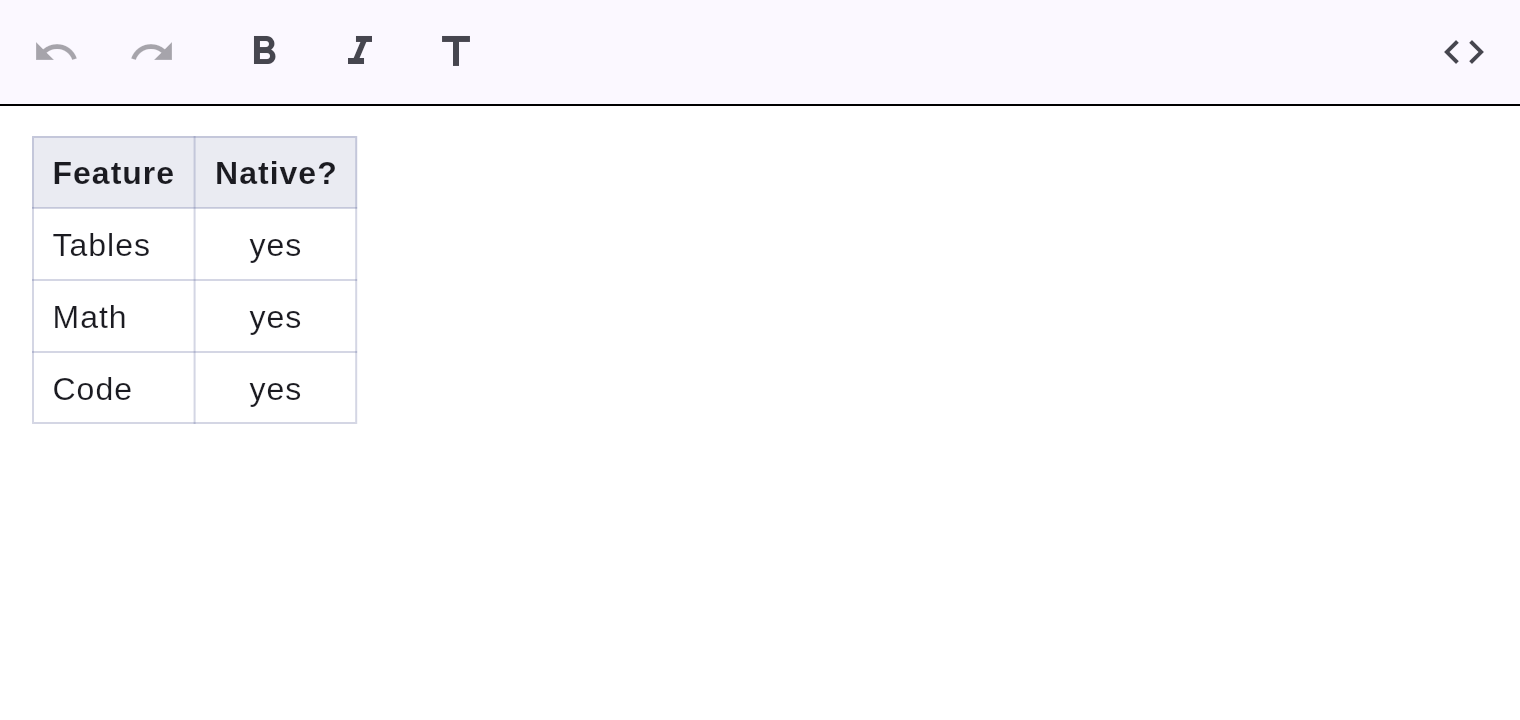
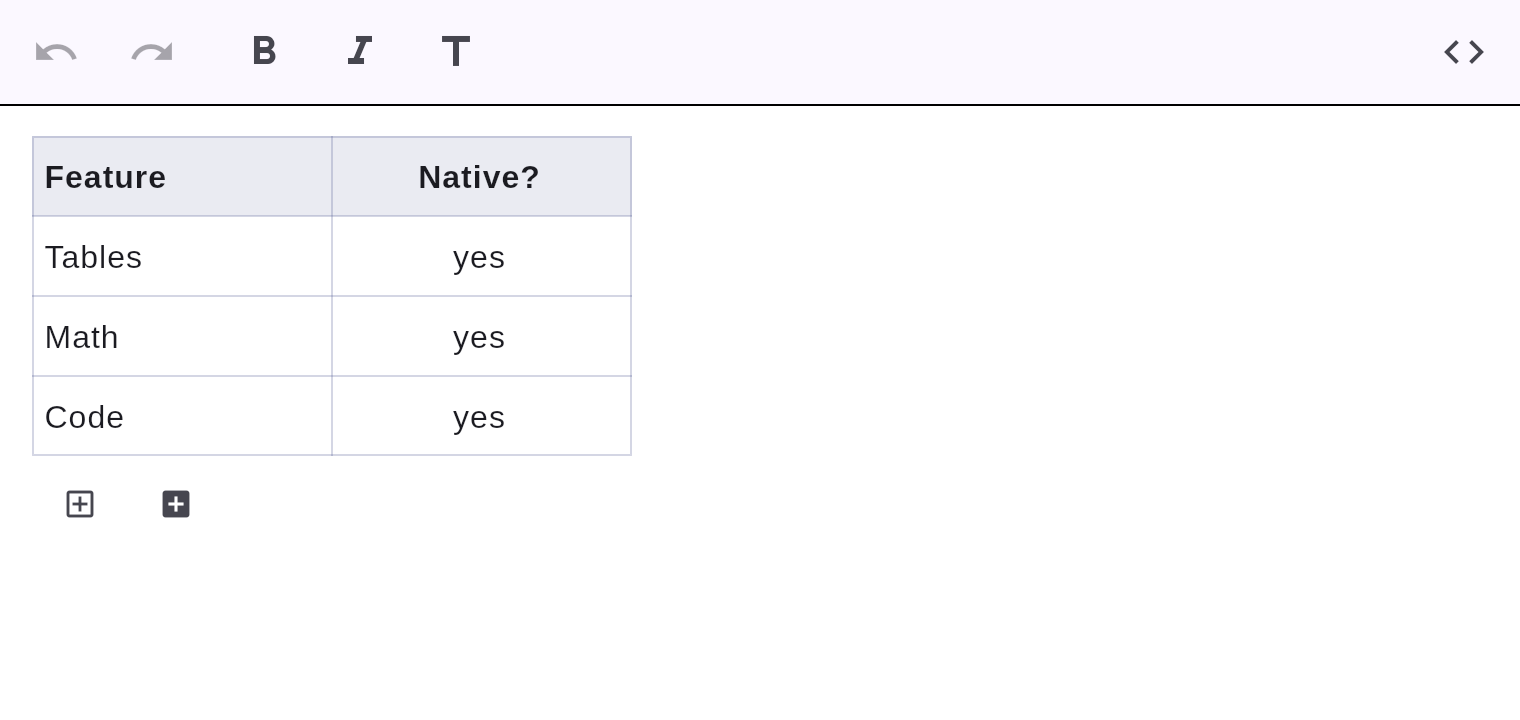
TDD: in-place editable table cells + add row/column + docs
Red-green: TableNode.withCell/withAppendedRow/withAppendedColumn + controller
updateTableCell/addTableRow/addTableColumn (undoable); editable _EditableTable
widget (per-cell TextFields with stable controllers, add row/col buttons).
read-only path keeps RichText cells. Unit + UI tests; docs. 355 tests, clean.

diff --git a/lib/src/widget/markdown_editor.dart b/lib/src/widget/markdown_editor.dart
@@ -566,7 +566,12 @@ class _MarkdownEditorState extends State<MarkdownEditor> with TextInputClient {
                       );
                     }
                     if (node is MathBlockNode) return _buildMath(node, style);
-                    if (node is TableNode) return _buildTable(node, style);
+                    if (node is TableNode) {
+                      return widget.readOnly
+                          ? _buildTable(node, style)
+                          : _EditableTable(
+                              node: node, style: style, controller: _c);
+                    }
                     if (node is MermaidNode) {
                       return widget.diagramRenderer.build(context, node, style);
                     }
@@ -1039,6 +1044,126 @@ class _BlockPainter extends CustomPainter {
       old.showCaret != showCaret ||
       old.selectionColor != selectionColor ||
       old.caretColor != caretColor;
+}
+
+// ── Editable table ─────────────────────────────────────────────────────────
+
+TextAlign _tableTextAlign(TableAlign a) => switch (a) {
+      TableAlign.center => TextAlign.center,
+      TableAlign.right => TextAlign.right,
+      _ => TextAlign.left,
+    };
+
+/// An editable GFM table: each cell is a [TextField] writing back to the model;
+/// buttons append rows/columns. Cell controllers persist across rebuilds so the
+/// caret is stable while typing.
+class _EditableTable extends StatefulWidget {
+  const _EditableTable(
+      {required this.node, required this.style, required this.controller});
+  final TableNode node;
+  final EditorStyle style;
+  final MarkdownEditorController controller;
+
+  @override
+  State<_EditableTable> createState() => _EditableTableState();
+}
+
+class _EditableTableState extends State<_EditableTable> {
+  final Map<String, TextEditingController> _ctl = {};
+  final Map<String, FocusNode> _fn = {};
+
+  String _key(int r, int c) => '${r}_$c';
+
+  @override
+  void dispose() {
+    for (final c in _ctl.values) {
+      c.dispose();
+    }
+    for (final f in _fn.values) {
+      f.dispose();
+    }
+    super.dispose();
+  }
+
+  TextEditingController _cellController(int r, int c) {
+    final k = _key(r, c);
+    final text = widget.node.cellText(r, c);
+    final ctl = _ctl.putIfAbsent(k, () => TextEditingController(text: text));
+    final fn = _fn.putIfAbsent(k, () => FocusNode());
+    if (!fn.hasFocus && ctl.text != text) ctl.text = text;
+    return ctl;
+  }
+
+  @override
+  Widget build(BuildContext context) {
+    final node = widget.node;
+    final style = widget.style;
+    final borderColor = style.caretColor.withValues(alpha: 0.25);
+    return Container(
+      key: ValueKey('markey-block-${node.id}'),
+      alignment: Alignment.centerLeft,
+      child: Column(
+        crossAxisAlignment: CrossAxisAlignment.start,
+        children: [
+          Table(
+            defaultColumnWidth: const FixedColumnWidth(150),
+            border: TableBorder.all(color: borderColor),
+            children: [
+              for (var r = 0; r < node.rowCount; r++)
+                TableRow(
+                  decoration: r == 0
+                      ? BoxDecoration(color: borderColor.withValues(alpha: 0.12))
+                      : null,
+                  children: [
+                    for (var c = 0; c < node.columnCount; c++)
+                      Padding(
+                        padding: const EdgeInsets.symmetric(
+                            horizontal: 6, vertical: 2),
+                        child: TextField(
+                          key: Key('markey-cell-${node.id}-$r-$c'),
+                          controller: _cellController(r, c),
+                          focusNode: _fn[_key(r, c)],
+                          textAlign: _tableTextAlign(node.alignments[c]),
+                          style: r == 0
+                              ? style.baseTextStyle
+                                  .copyWith(fontWeight: FontWeight.bold)
+                              : style.baseTextStyle,
+                          decoration: const InputDecoration(
+                            isDense: true,
+                            border: InputBorder.none,
+                            contentPadding: EdgeInsets.symmetric(vertical: 6),
+                          ),
+                          onChanged: (t) =>
+                              widget.controller.updateTableCell(node.id, r, c, t),
+                        ),
+                      ),
+                  ],
+                ),
+            ],
+          ),
+          Row(
+            mainAxisSize: MainAxisSize.min,
+            children: [
+              IconButton(
+                key: Key('markey-table-addrow-${node.id}'),
+                tooltip: 'Add row',
+                iconSize: 18,
+                icon: const Icon(Icons.add_box_outlined),
+                onPressed: () => widget.controller.addTableRow(node.id),
+              ),
+              IconButton(
+                key: Key('markey-table-addcol-${node.id}'),
+                tooltip: 'Add column',
+                iconSize: 18,
+                icon: const Icon(Icons.add_box),
+                onPressed: () => widget.controller.addTableColumn(node.id),
+              ),
+            ],
+          ),
+        ],
+      ),
+    );
+  }
 }
 
 // ── Selection bubble toolbar ───────────────────────────────────────────────

diff --git a/lib/src/widget/controller.dart b/lib/src/widget/controller.dart
@@ -7,6 +7,7 @@ import '../editing/input_rules.dart';
 import '../editing/operations.dart';
 import '../editing/search.dart';
 import '../editing/transaction.dart';
+import '../model/delta.dart';
 import '../model/document.dart';
 import '../model/node.dart';
 import '../model/position.dart';
@@ -176,6 +177,32 @@ class MarkdownEditorController extends ChangeNotifier {
       tag: 'insert-block',
     ));
   }
+
+  // ── Table editing ────────────────────────────────────────────────────────
+
+  void _applyTable(String tableId, TableNode Function(TableNode) update) {
+    _canRevertRule = false;
+    final node = document.nodeById(tableId);
+    if (node is! TableNode) return;
+    _editor.apply(EditTransaction(
+      operations: [ReplaceNodeOp(document.indexOfId(tableId), node, update(node))],
+      selectionBefore: selection,
+      selectionAfter: selection,
+      tag: 'table-edit',
+    ));
+  }
+
+  /// Sets the plain-text content of a table cell.
+  void updateTableCell(String tableId, int row, int col, String text) =>
+      _applyTable(tableId, (t) => t.withCell(row, col, Delta.text(text)));
+
+  /// Appends an empty row to a table.
+  void addTableRow(String tableId) =>
+      _applyTable(tableId, (t) => t.withAppendedRow());
+
+  /// Appends an empty column to a table.
+  void addTableColumn(String tableId) =>
+      _applyTable(tableId, (t) => t.withAppendedColumn());
 
   // ── Find & replace ───────────────────────────────────────────────────────
 

diff --git a/test/widget/blocks_render_test.dart b/test/widget/blocks_render_test.dart
@@ -122,9 +122,11 @@ void main() {
     await teardown(tester);
   });
 
-  testWidgets('GFM table renders a Table widget with all cells', (tester) async {
+  testWidgets('read-only GFM table renders a Table widget with all cells',
+      (tester) async {
     final c = await pump(
-        tester, '| Name | Age |\n| --- | --- |\n| Ann | 30 |\n| Bob | 25 |');
+        tester, '| Name | Age |\n| --- | --- |\n| Ann | 30 |\n| Bob | 25 |',
+        readOnly: true);
     expect(find.byType(Table), findsOneWidget);
     // 3 rows x 2 cols = 6 rich-text cells.
     final cells = find.descendant(
@@ -135,6 +137,25 @@ void main() {
     final t = c.document.nodes.first as TableNode;
     expect(t.cellText(0, 0), 'Name');
     expect(t.cellText(2, 0), 'Bob');
+    await teardown(tester);
+  });
+
+  testWidgets('editable table: typing in a cell updates the model',
+      (tester) async {
+    final c = await pump(tester, '| A | B |\n| --- | --- |\n| 1 | 2 |');
+    final id = c.document.nodes.first.id;
+    await tester.enterText(find.byKey(Key('markey-cell-$id-0-0')), 'Name');
+    await tester.pump();
+    expect((c.document.nodes.first as TableNode).cellText(0, 0), 'Name');
+    await teardown(tester);
+  });
+
+  testWidgets('editable table: add-row button appends a row', (tester) async {
+    final c = await pump(tester, '| A | B |\n| --- | --- |\n| 1 | 2 |');
+    final id = c.document.nodes.first.id;
+    await tester.tap(find.byKey(Key('markey-table-addrow-$id')));
+    await tester.pump();
+    expect((c.document.nodes.first as TableNode).rowCount, 3);
     await teardown(tester);
   });
 

diff --git a/test/unit/table_edit_test.dart b/test/unit/table_edit_test.dart
@@ -1,0 +1,48 @@
+import 'package:flutter_test/flutter_test.dart';
+import 'package:markey_mark/markey_mark.dart';
+
+void main() {
+  MarkdownEditorController make() => MarkdownEditorController(
+      markdown: '| A | B |\n| --- | --- |\n| 1 | 2 |');
+
+  TableNode table(MarkdownEditorController c) => c.document.nodes.first as TableNode;
+
+  test('updateTableCell changes a cell and round-trips', () {
+    final c = make();
+    final id = table(c).id;
+    c.updateTableCell(id, 0, 0, 'Name');
+    expect(table(c).cellText(0, 0), 'Name');
+    expect(c.markdown, contains('| Name | B |'));
+    c.dispose();
+  });
+
+  test('updateTableCell is undoable', () {
+    final c = make();
+    final id = table(c).id;
+    c.updateTableCell(id, 1, 1, '99');
+    expect(table(c).cellText(1, 1), '99');
+    c.undo();
+    expect(table(c).cellText(1, 1), '2');
+    c.dispose();
+  });
+
+  test('addTableRow appends an empty row', () {
+    final c = make();
+    final id = table(c).id;
+    c.addTableRow(id);
+    expect(table(c).rowCount, 3); // header + 2 body rows
+    expect(table(c).cellText(2, 0), '');
+    c.dispose();
+  });
+
+  test('addTableColumn appends a column with alignment', () {
+    final c = make();
+    final id = table(c).id;
+    c.addTableColumn(id);
+    final t = table(c);
+    expect(t.columnCount, 3);
+    expect(t.alignments.length, 3);
+    expect(t.rows.every((r) => r.length == 3), isTrue);
+    c.dispose();
+  });
+}

diff --git a/lib/src/model/node.dart b/lib/src/model/node.dart
@@ -351,6 +351,38 @@ final class TableNode extends Node {
 
   String cellText(int row, int col) => rows[row][col].toPlainText();
 
+  /// Returns a copy with cell (row,col) replaced by [delta].
+  TableNode withCell(int row, int col, Delta delta) {
+    final newRows = [
+      for (var r = 0; r < rows.length; r++)
+        [
+          for (var c = 0; c < rows[r].length; c++)
+            (r == row && c == col) ? delta : rows[r][c]
+        ]
+    ];
+    return TableNode(id: id, rows: newRows, alignments: alignments, attributes: attributes);
+  }
+
+  /// Returns a copy with an empty row appended.
+  TableNode withAppendedRow() {
+    final newRow = [for (var c = 0; c < columnCount; c++) Delta.empty()];
+    return TableNode(
+        id: id, rows: [...rows, newRow], alignments: alignments, attributes: attributes);
+  }
+
+  /// Returns a copy with an empty (left-aligned-by-default) column appended.
+  TableNode withAppendedColumn() {
+    final newRows = [
+      for (final r in rows) [...r, Delta.empty()]
+    ];
+    return TableNode(
+      id: id,
+      rows: newRows,
+      alignments: [...alignments, TableAlign.none],
+      attributes: attributes,
+    );
+  }
+
   @override
   Node copyWith({Attributes? attributes}) => TableNode(
         id: id,

diff --git a/docs/features/tables.md b/docs/features/tables.md
@@ -13,6 +13,10 @@ GitHub-flavored tables with per-column alignment, rendered natively.
 | Math    | yes     |
 ```
 
-The alignment row (`:--`, `:-:`, `--:`) sets left / center / right alignment per column. Cells
-support inline formatting (e.g. **bold**, `code`, [links](links.md)), and the table
-round-trips to clean Markdown.
+The alignment row (`:--`, `:-:`, `--:`) sets left / center / right alignment per column, and
+the table round-trips to clean Markdown.
+
+## Editing
+
+Tables are **editable in place**: click any cell to edit it, and use the add-row / add-column
+buttons beneath the table to grow it. Every edit is undoable and reflected in the Markdown.
